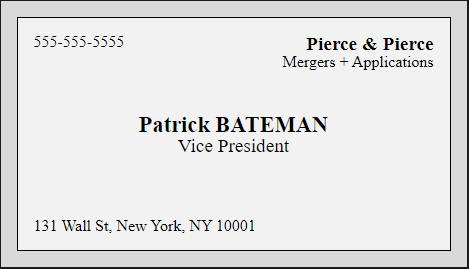
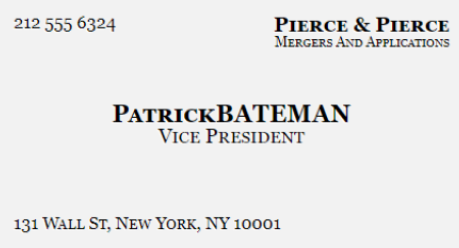
add habit tracker to content

diff --git a/themes/radiation/layouts/projects/single.html b/themes/radiation/layouts/projects/single.html
@@ -1,5 +1,5 @@
 {{ define "main" }}
-    <section>
+    <section class="project" id="project-{{ .Title | urlize }}">
         <hgroup>
             <h3>
                 <span>{{ .Title }}</span>
@@ -17,8 +17,8 @@
                 {{ end }}
             </ul>
         </hgroup>
-    </section>
-    <section>
-        {{ .Content }}
+        <div class="content">
+            {{ .Content }}
+        </div>
     </section>
 {{ end }}

diff --git a/themes/radiation/layouts/partials/head/css.html b/themes/radiation/layouts/partials/head/css.html
@@ -7,3 +7,8 @@
     {{- end }}
   {{- end }}
 {{- end }}
+
+
+{{- with resources.Get "css/site.css" }}
+<link rel="stylesheet" href="{{ .RelPermalink }}">
+{{- end }}

diff --git a/assets/css/site.css b/assets/css/site.css
@@ -1,0 +1,6 @@
+figure.preview{
+    padding: 1rem;
+}
+figure.preview > img {
+    max-width: 360px;
+}

diff --git a/content/projects/habits-poc.md b/content/projects/habits-poc.md
@@ -1,0 +1,27 @@
++++
+title = 'Deep Habits'
+date = 2024-04-16T15:50:11-07:00
+draft = false
+description = 'A Vanilla JS CRUD App 🙌  Built on SQL.js and Event Listeners and Inspired by Cal Newport'
+site = 'https://abstractionjackson.github.io/habit-tracker/'
+githubRepo = 'habit-tracker'
++++
+
+{{< figure src="/images/preview-habit-tracker.png" title="Landing Page, Web Application" class="preview" >}}
+
+# Deep Habits
+A simple CRUD app built on vanilla JS and SQLite.
+## Usage
+Open in the browser
+## Features
+- create habits by name
+- view list of habits
+- right-click to edit habit
+  - edit text content, and click to update
+- right-click to delete
+## Justification
+The Habit Tracker (...) is a stacic webpage that uses Web APIs and SQL.js to create and persist data.
+The UI is reactive, thanks to vanilla browser events that rerender when data changes.
+The stack is faily extensible, and the development process takes little time, especially considering GitHub co-pilot...
+## Author
+abstractionjackson

diff --git a/content/projects/pale-nimbus.md b/content/projects/pale-nimbus.md
@@ -7,4 +7,17 @@ technologies = ["HTML", "CSS", "JavaScript", "Web APIs"]
 githubRepo = "business-card"
 site = "https://abstractionjackson.github.io/business-card/"
 +++
-{{< figure src="/images/preview-biz-card.png" title="The Business Card, Statically Rendered" >}}
+{{< figure src="/images/preview-biz-card.png" title="The Business Card, Rasterized" class="preview" >}}
+
+## About
+A business card you can edit in the browser, __Pale Nimbus__ is built on the Web Components suite of technologies. Visit the [example site](https://abstractionjackson.github.io/business-card), and click any of the elements to update its text. Visit the source code to grab a copy of the template (from `index.html`) and the script (`script.js`) to use the component in your site!
+## Features
+Name, Title, Company, Team, Phone, Address
+## Technologies
+- HTML
+ - 
+- CSS
+    - text-shadow
+    - text-transform: small-caps
+    - grid
+- JS
